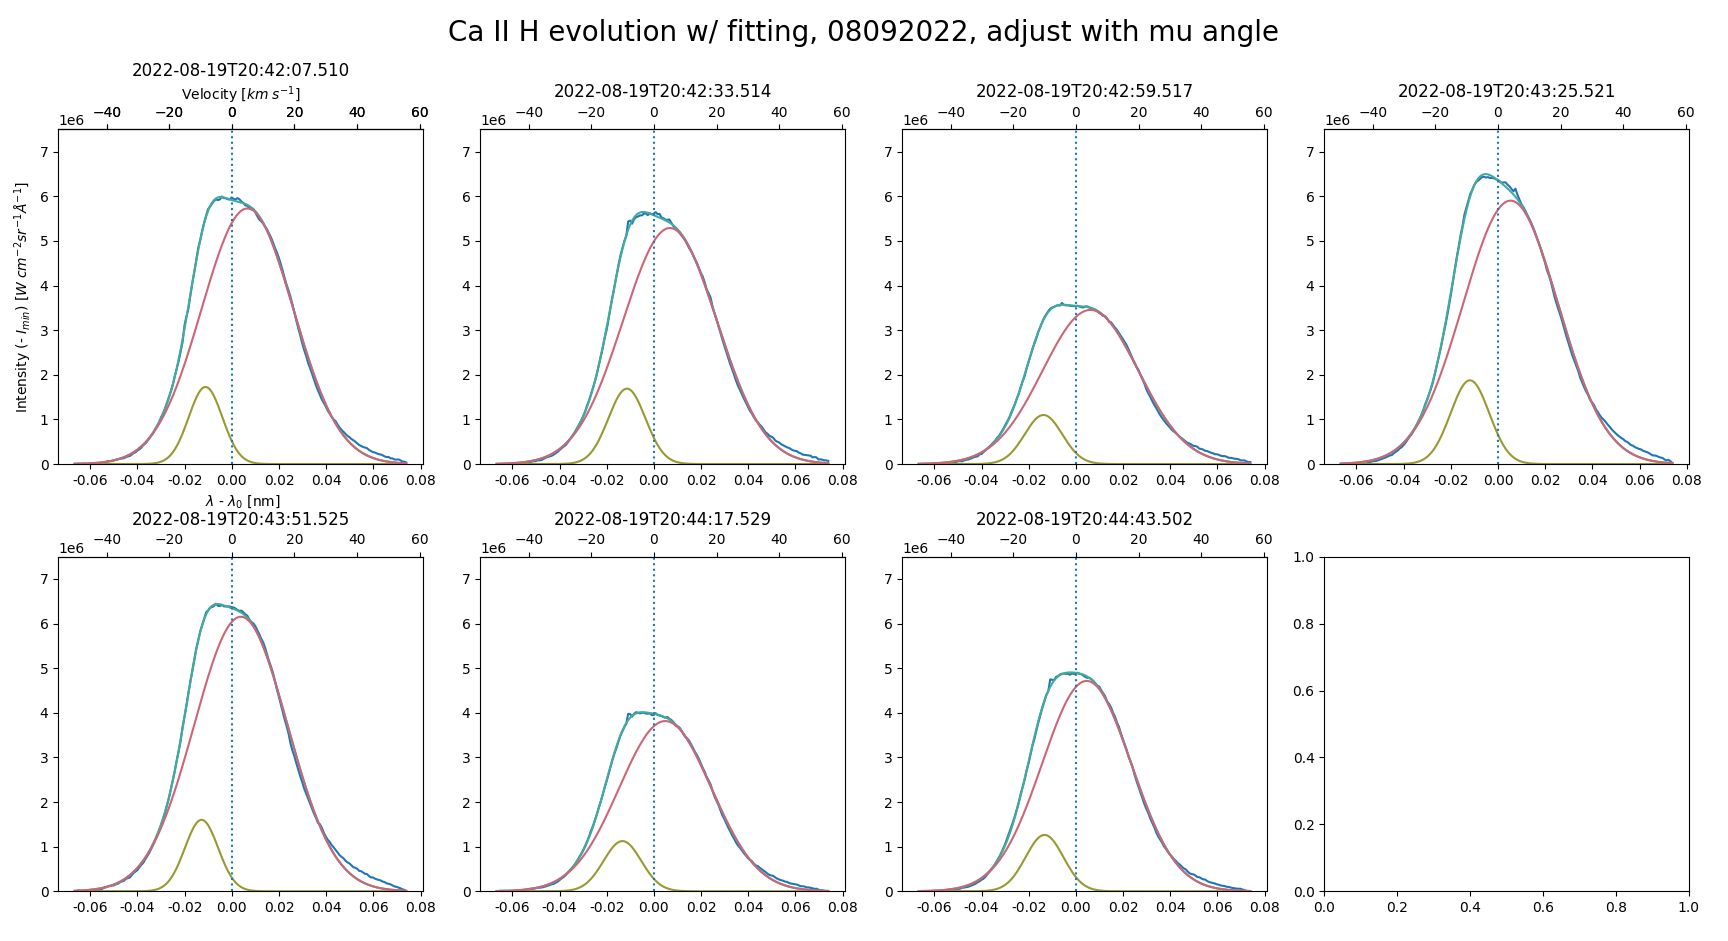
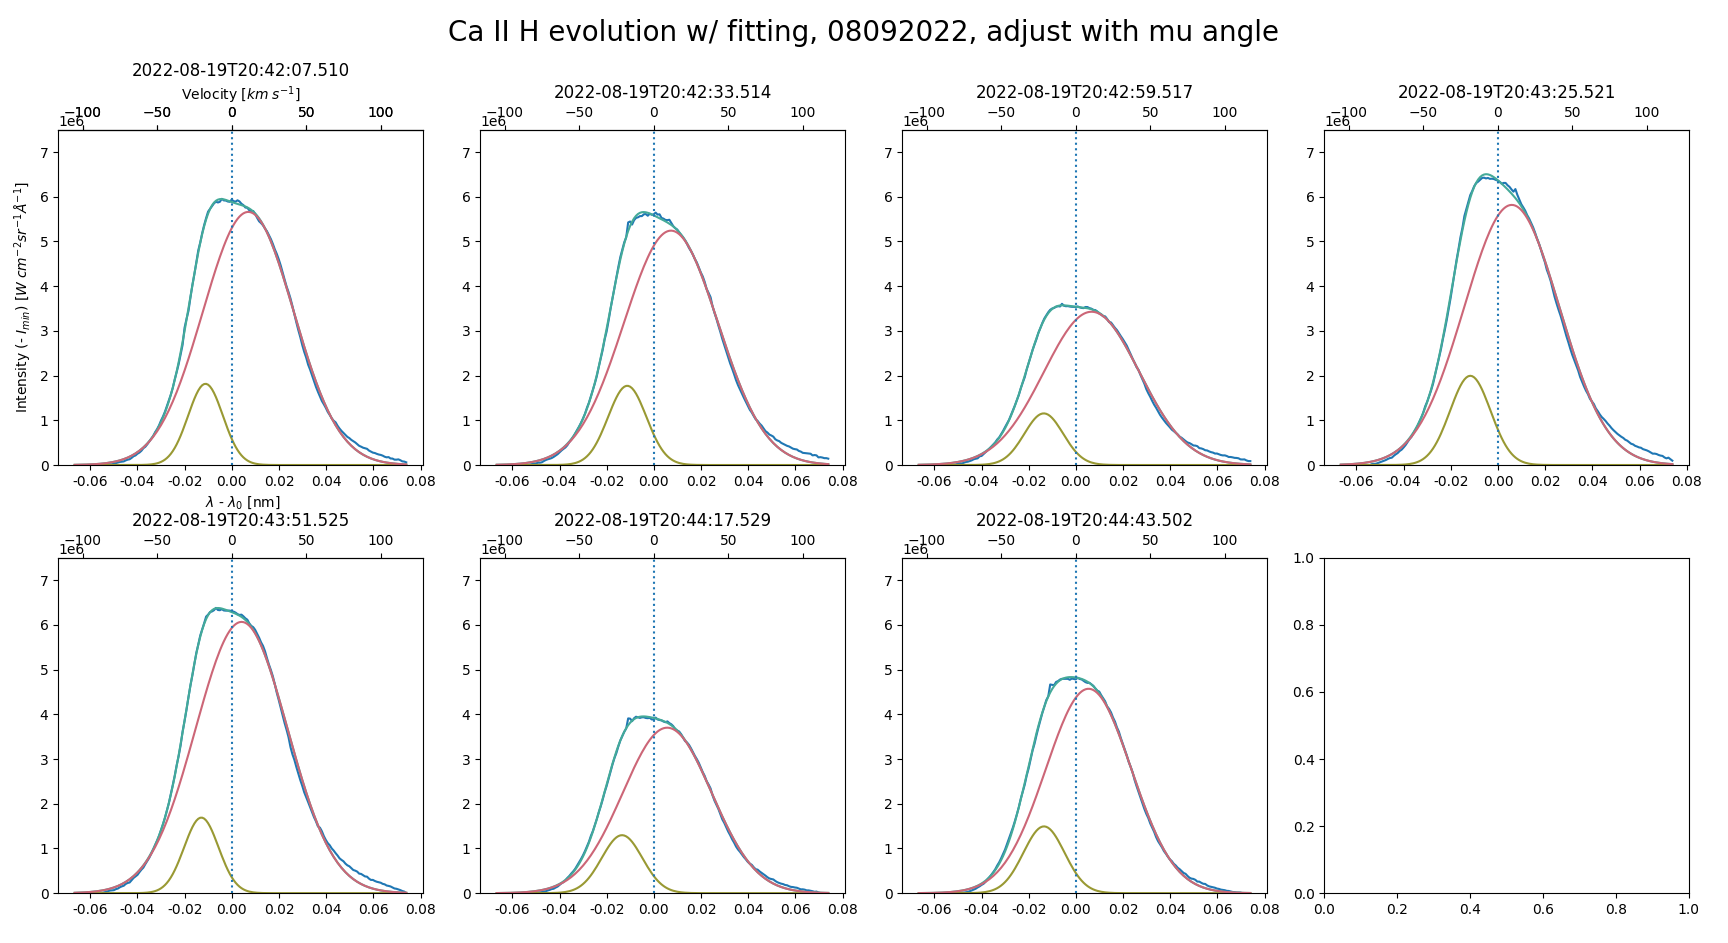
Minor changes; simplification of polynomial fit before Gaussian fitting of line, for example

diff --git a/dkistpkg_ct.py b/dkistpkg_ct.py
@@ -960,7 +960,7 @@ def fittingroutines(bkgd_subtract_flaretime,dispersion_range,
                     params2gauss,params2gaussneg,maxinds,pid='pid_1_84',
                     date = '08/09/2022',line = 'Ca II H',nimg = 7,
                     inds=[410,460,510,520,590,600,610,620,630,640,650,660,670,680,690,700,
-                          720]):
+                          720],deg=7):
     # More flexible line fitting routines; currently for Ca II H as observed
     # in pid_1_84, but flexible for application to other lines.  Currently also
     # only includes functinoality for single Gaussian and double Gaussian fits;
@@ -984,7 +984,7 @@ def fittingroutines(bkgd_subtract_flaretime,dispersion_range,
              
             cont_int_array = bkgd_subtract_flaretime[j,inds,kernind]
             cont_int_wave_array = dispersion_range[inds]
-            deg = 7
+            deg = deg
             p = np.poly1d(np.polyfit(cont_int_wave_array,cont_int_array,deg))
             nolines = p(dispersion_range)
             selwl = dispersion_range[line_low:line_high]
@@ -1035,7 +1035,7 @@ def fittingroutines(bkgd_subtract_flaretime,dispersion_range,
         kernind = maxinds[i]
         cont_int_array = bkgd_subtract_flaretime[i,inds,kernind]
         cont_int_wave_array = dispersion_range[inds]
-        deg = 7
+        deg =deg
         p = np.poly1d(np.polyfit(cont_int_wave_array,cont_int_array,deg))
         nolines = p(dispersion_range)
         selwl = dispersion_range[line_low:line_high]
@@ -1078,7 +1078,7 @@ def pltfitresults(bkgd_subtract_flaretime,dispersion_range,double_gaussian,
                   lamb0 = 396.847,c=2.99e5,
                   note='',lim=0.3e6,
                   yhigh=1.5e6,inds=[410,460,510,520,590,600,610,620,630,640,650,
-                                    660,670,680,690,700,720]):
+                                    660,670,680,690,700,720],deg=7):
     
     # plotting of the output of "fittingroutines"; can expand to beyond first
     # few image frames.  Tested 1 Dec 2023 for pid_1_84 Ca II H but not beyond
@@ -1110,8 +1110,8 @@ def pltfitresults(bkgd_subtract_flaretime,dispersion_range,double_gaussian,
     selwlvel = (selwl/lamb0-1)*c
     
     def veltrans(x):
-        #return ((((x+lamb0)/lamb0)-1)*c)/mu
-        return ((((x+lamb0)/lamb0)-1)*c)
+        return ((((x+lamb0)/lamb0)-1)*c)/mu
+        #return ((((x+lamb0)/lamb0)-1)*c) #old, no mu angle difference
     
     def wltrans(x):
         return ((((x/c)+1)*lamb0)-lamb0)
@@ -1122,7 +1122,7 @@ def pltfitresults(bkgd_subtract_flaretime,dispersion_range,double_gaussian,
         kernind = maxinds[i]
         cont_int_array = bkgd_subtract_flaretime[i,inds,kernind]
         cont_int_wave_array = dispersion_range[inds]
-        deg = 7
+        deg = deg
         p = np.poly1d(np.polyfit(cont_int_wave_array,cont_int_array,deg))
         nolines = p(dispersion_range)
         selwl = dispersion_range[line_low:line_high]

diff --git a/19_Aug_2022_DKIST_analysis.py b/19_Aug_2022_DKIST_analysis.py
@@ -266,7 +266,7 @@ fits_1g,fits_2g,fits_2gneg,params2gaussnew,stopind = \
                                   [.5e6,396.85,0.015,-1e6,396.85,0.015],
                                   maxindices,pid='pid_1_84', date = '08/09/2022',
                                   line = 'Ca II H',nimg = 7,
-                                  inds=[380,390,400,410,450,480,647,700,820,850,900])
+                                  inds=[380,390,400,410,450,480,647,700,820,850,900],deg=1)
 
 # plot results of Gaussian fitting
 
@@ -277,7 +277,7 @@ DKISTanalysis.pltfitresults(bkgd_subtract_flaretime,dispersion_range,
                             caII_low,caII_high,fits_1g,fits_2g,fits_2gneg,maxindices,
                             mu, pid='pid_1_84', date = '08092022',line = 'Ca II H',
                             nimg = 7, nrow=2,ncol=4,lamb0=wl,note=note,yhigh=7.5e6,
-                            inds=[380,390,400,410,450,480,647,700,820,850,900])
+                            inds=[380,390,400,410,450,480,647,700,820,850,900],deg=1)
     
 
 
